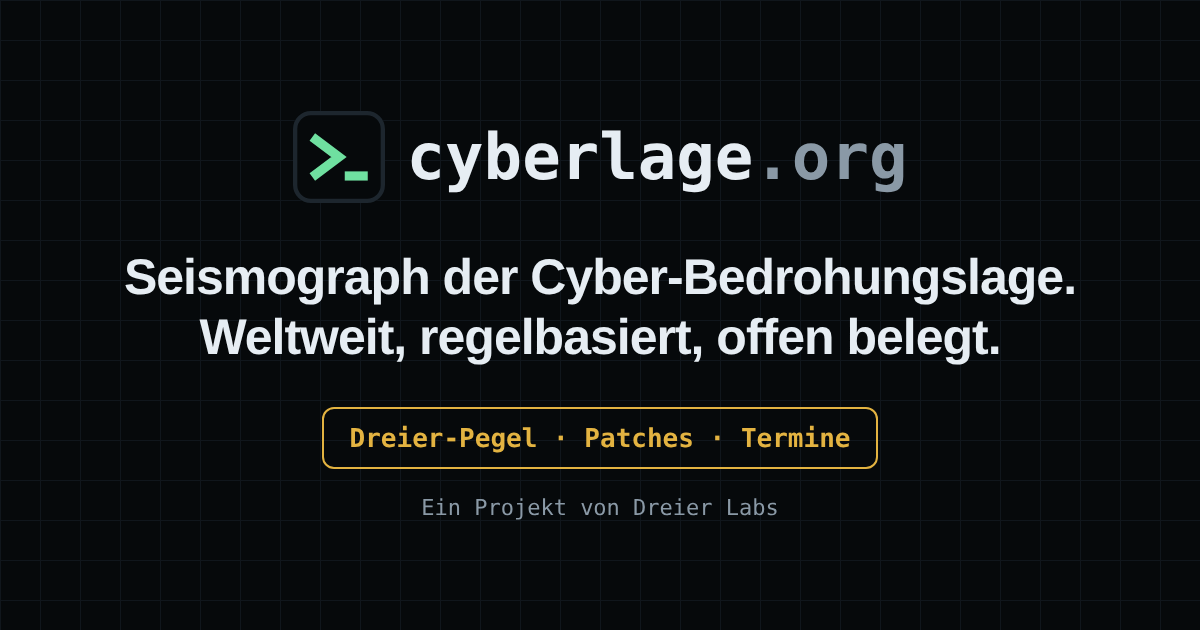
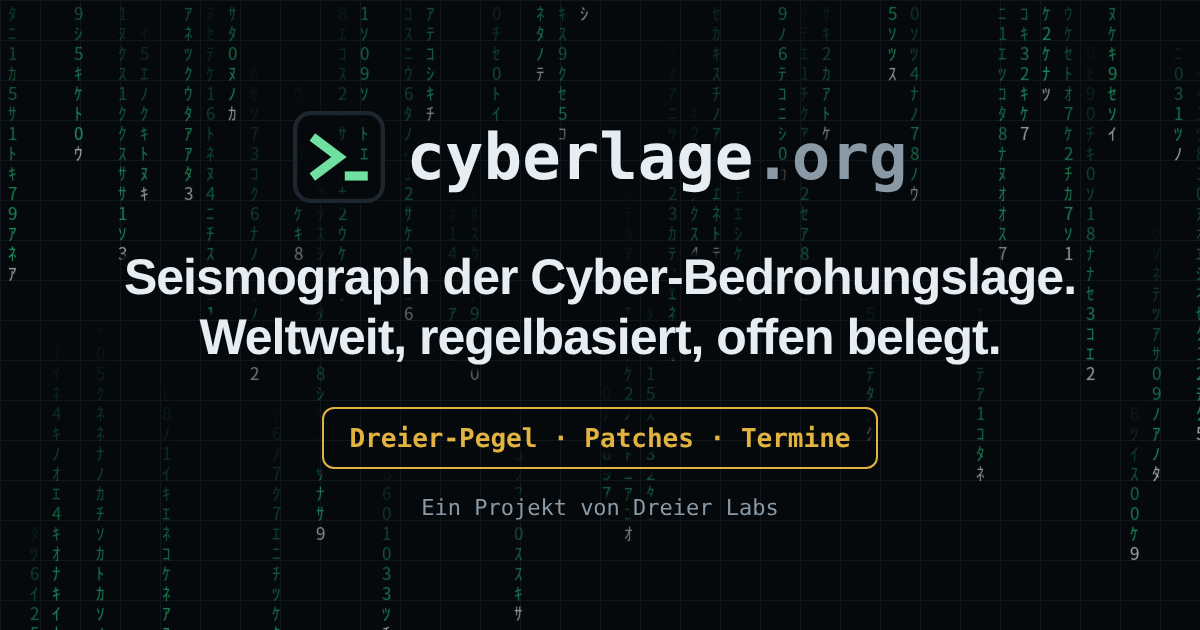
Vorschaubild im Matrix-Stil (og.png), Erzeugungsskript pipeline/og_matrix.py
Claude-Session: https://claude.ai/code/session_01ApH6QfvaxP8NmgnPRrmuxx

diff --git a/pipeline/og_matrix.py b/pipeline/og_matrix.py
@@ -1,0 +1,54 @@
+"""Erzeugt site/og.png (Vorschaubild für Links) im Matrix-Stil neu: dezenter Zeichenregen hinter dem bisherigen Bild.
+
+Rein Optik, keine Zahlen im Bild (ein Pegelwert im Bild wäre morgen veraltet). Aufruf: python pipeline/og_matrix.py [Quelle.png] [Ziel.png]
+Der Regen liegt nur dort, wo das Ausgangsbild leer ist, Logo, Titel und Rahmen bleiben pixelgenau. Zufall ist fest (Startwert), das Ergebnis ist wiederholbar.
+Schrift: Noto Sans CJK (Katakana), nur zum Erzeugen des Bildes nötig, nicht für die Seite."""
+import random
+import sys
+from pathlib import Path
+
+from PIL import Image, ImageChops, ImageDraw, ImageFilter, ImageFont
+
+GL = "ｱｲｳｴｵｶｷｸｹｺｻｼｽｾｿﾀﾁﾂﾃﾄﾅﾆﾇﾈﾉ0123456789"
+FONT = "/usr/share/fonts/opentype/noto/NotoSansCJK-Regular.ttc"
+
+
+def erzeuge(quelle, ziel):
+    basis = Image.open(quelle).convert("RGB")
+    b, h = basis.size
+    rnd = random.Random(2611)
+    regen = Image.new("RGB", (b, h), (0, 0, 0))
+    d = ImageDraw.Draw(regen)
+    schrift = ImageFont.truetype(FONT, 17)
+    zeile, spalte = 20, 22
+    for x in range(8, b, spalte):
+        laenge = rnd.randint(6, 22)
+        kopf = rnd.randint(-5, h // zeile + 4)
+        for i in range(laenge):
+            y = (kopf - i) * zeile
+            if not -zeile < y < h:
+                continue
+            st = max(0.0, 1 - i / laenge)
+            farbe = (255, 255, 255) if i == 0 else (int(40 * st), int(235 * st), int(150 * st))
+            d.text((x, y), rnd.choice(GL), font=schrift, fill=farbe)
+    regen = regen.filter(ImageFilter.GaussianBlur(0.4))
+    # Der Regen wird zu den Rändern hin kräftiger und in der Mitte leiser, damit Titel und Pegelrahmen lesbar bleiben.
+    maske = Image.new("L", (b, h), 0)
+    md = ImageDraw.Draw(maske)
+    md.ellipse((b * 0.12, h * 0.1, b * 0.88, h * 0.9), fill=255)
+    maske = maske.filter(ImageFilter.GaussianBlur(90))
+    kraft = Image.eval(maske, lambda v: int(95 + (255 - v) * 0.30))
+    regen = Image.composite(regen, Image.new("RGB", (b, h), (0, 0, 0)), Image.new("L", (b, h), 255))
+    regen = ImageChops.multiply(regen, Image.merge("RGB", (kraft, kraft, kraft)))
+    # Nur dort einblenden, wo das Ausgangsbild leer ist (Hintergrundhelligkeit), Gitterlinien dürfen darunter bleiben.
+    hell = basis.convert("L").point(lambda v: 255 if v > 30 else 0).filter(ImageFilter.MaxFilter(13)).filter(ImageFilter.GaussianBlur(2))
+    frei = ImageChops.invert(hell)
+    ergebnis = Image.composite(ImageChops.add(basis, regen), basis, frei)
+    ergebnis.save(ziel, optimize=True)
+    return ergebnis.size
+
+
+if __name__ == "__main__":
+    q = sys.argv[1] if len(sys.argv) > 1 else "site/og.png"
+    z = sys.argv[2] if len(sys.argv) > 2 else q
+    print(erzeuge(q, z))

diff --git a/QS.md b/QS.md
@@ -19,6 +19,9 @@ Steve soll nicht zwischen den Chats vermitteln müssen. Wer am Repo arbeitet, li
 ### Erledigt 26.11., Kopfleiste vereinheitlicht
 - ALARM und MATRIX sind jetzt gleich aufgebaut: ein Kasten mit Name und zwei Quadraten (vorher ALARM als Knopf plus loser zweiter Kasten). Gemeinsame Klasse `.sw-grp` in `style.css`, Markup in `site/index.html` und `site/en/index.html`, Logik in `modus.js` und `matrix.js`. Geprüft: Unit-Tests, Klicktest (0 Fehler), Handy 390 px und Desktop, DE und EN.
 
+### Erledigt 26.11., Vorschaubild im Matrix-Stil
+- `site/og.png` zeigt jetzt dezenten Matrix-Zeichenregen hinter dem bisherigen Bild (Logo, Titel, Rahmen unverändert). Bewusst ohne Pegelzahl im Bild, die wäre morgen veraltet. Erzeugt mit `pipeline/og_matrix.py` (wiederholbar, fester Startwert). Soziale Netze zeigen das alte Bild, bis ihr Zwischenspeicher abläuft (LinkedIn: Post Inspector).
+
 ### Offen: Härtung Dreier Labs
 - **dreierlabs.com, Cloudflare-Teil: erledigt (26.11., Claude per Browser, auf Steves Auftrag).** Gesetzt: TLS-Minimum 1.2, „Always Use HTTPS“ an, DNSSEC aktiviert (Status „pending“, DS-Eintrag trägt Cloudflare Registrar selbst ein; später prüfen, dass es aktiv ist), CAA (pki.goog, letsencrypt.org, ssl.com, sectigo.com), SPF `v=spf1 -all`, `_dmarc` `v=DMARC1; p=reject; sp=reject; adkim=s; aspf=s`. Mail: Domain sendet und empfängt nichts (Kontakt über Gmail), deshalb unbedenklich. Nicht gesetzt: Null-MX (nur Hinweis im Audit) und HSTS im Dashboard (kommt per `_headers` aus dem Code). Offen: Audit-Lauf für dreierlabs.com in der Dreier-Labs-Kopie des Werkzeugs, dann Befunde gegenlesen. Danach Lauf prüfen, dann nächste Adresse (Reihenfolge: nosinglepoint.com, satoshisgrid.com, notsodefi.com, bittensor-labs.com; deren Repos erst prüfen). `security.txt` dort und auf allen Seiten vor 2027-11-20 erneuern. Veröffentlichen (`oeffentlich: true`) erst nach den Korrekturen.
 
